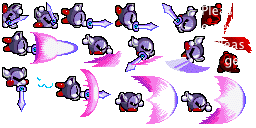
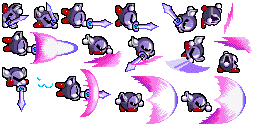
update plist

Changed region(s): [[0.7812, 0.0312, 0.9375, 0.25], [0.8438, 0.2812, 1.0, 0.4062], [0.8438, 0.4062, 0.9375, 0.5625]]

diff --git a/character/Classes/HelloWorldScene.cpp b/character/Classes/HelloWorldScene.cpp
@@ -71,6 +71,13 @@ bool HelloWorld::init()
     // add the sprite as a child to this layer
     this->addChild(pSprite, 0);
     
+    
+    CCSpriteFrameCache *spriteCache = CCSpriteFrameCache::sharedSpriteFrameCache();
+    spriteCache->addSpriteFramesWithFile("darknight.plist");
+    CCSprite *sprite = CCSprite::createWithSpriteFrameName("7.png");
+    this->addChild(sprite);
+    CCSize winSize = CCDirector::sharedDirector()->getWinSize();
+    sprite->setPosition(ccp(sprite->getContentSize().width/2, winSize.height/2));
     return true;
 }
 
